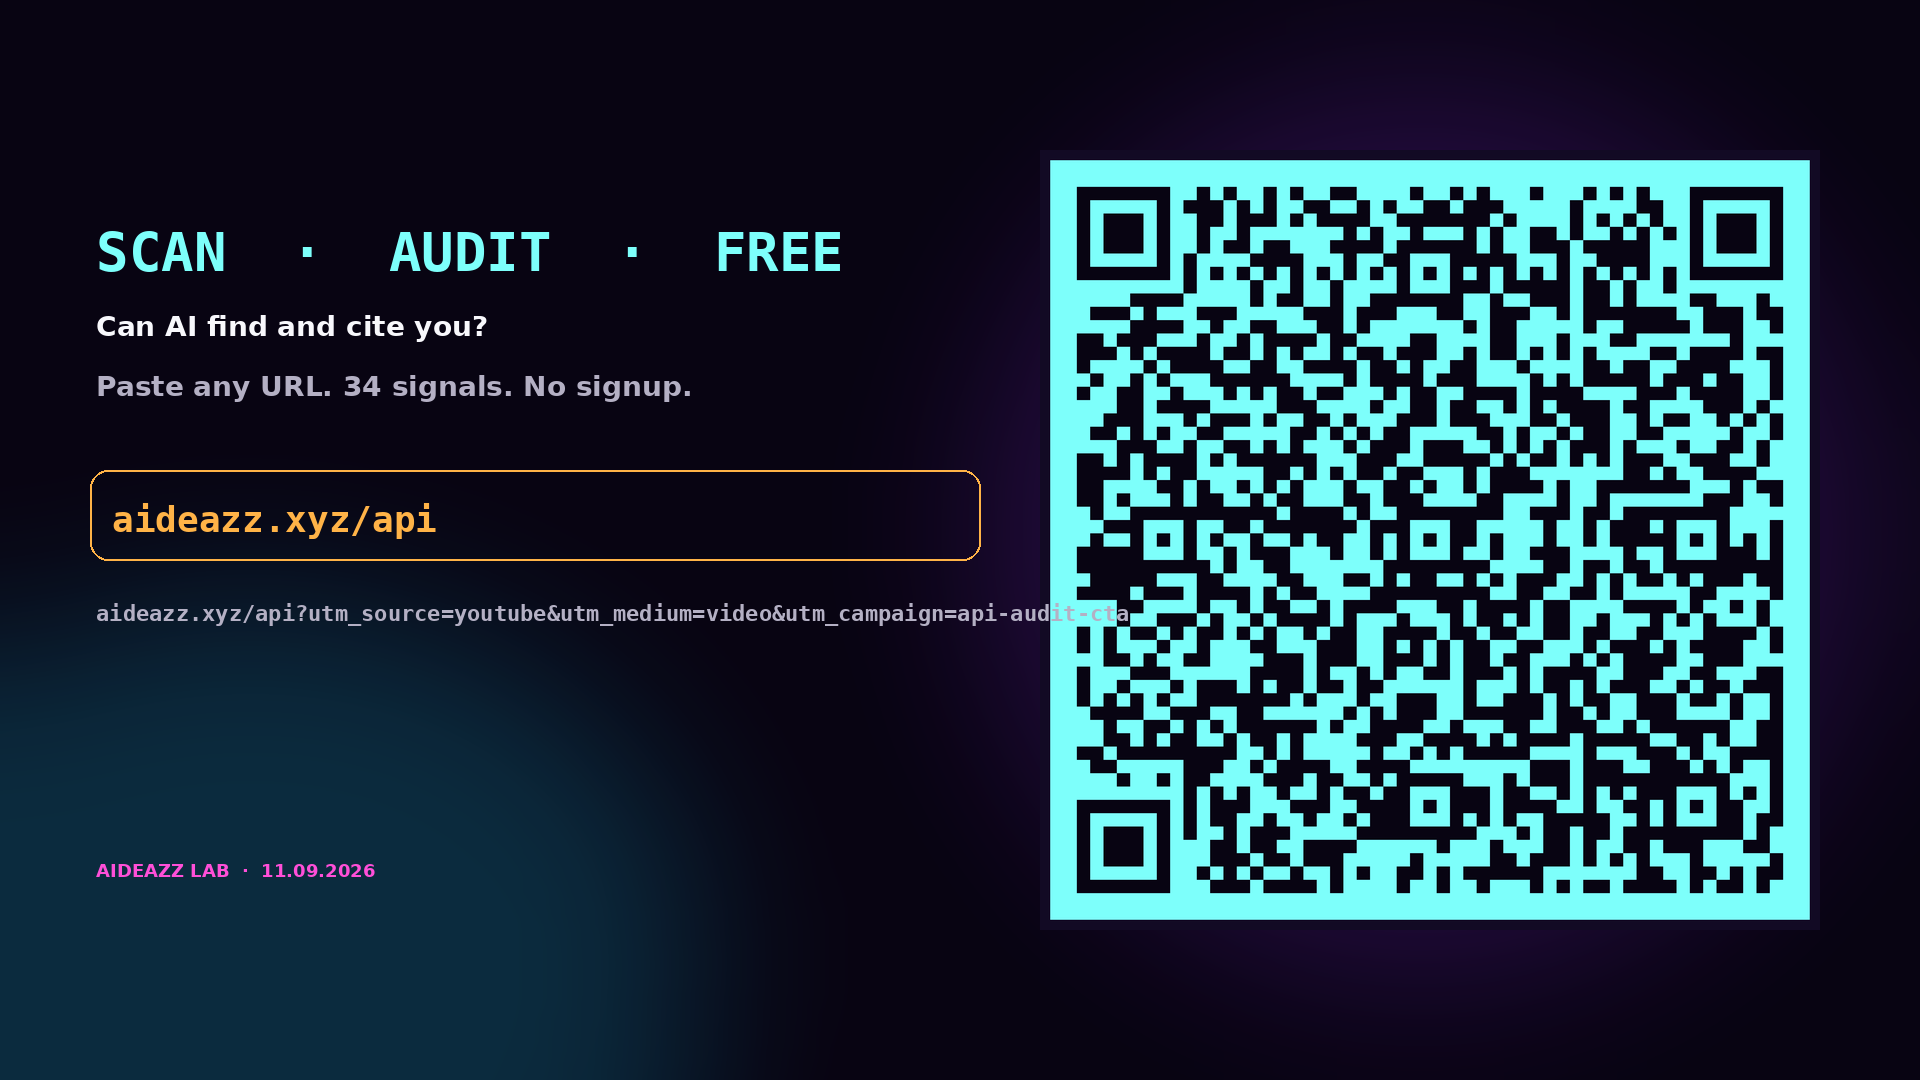
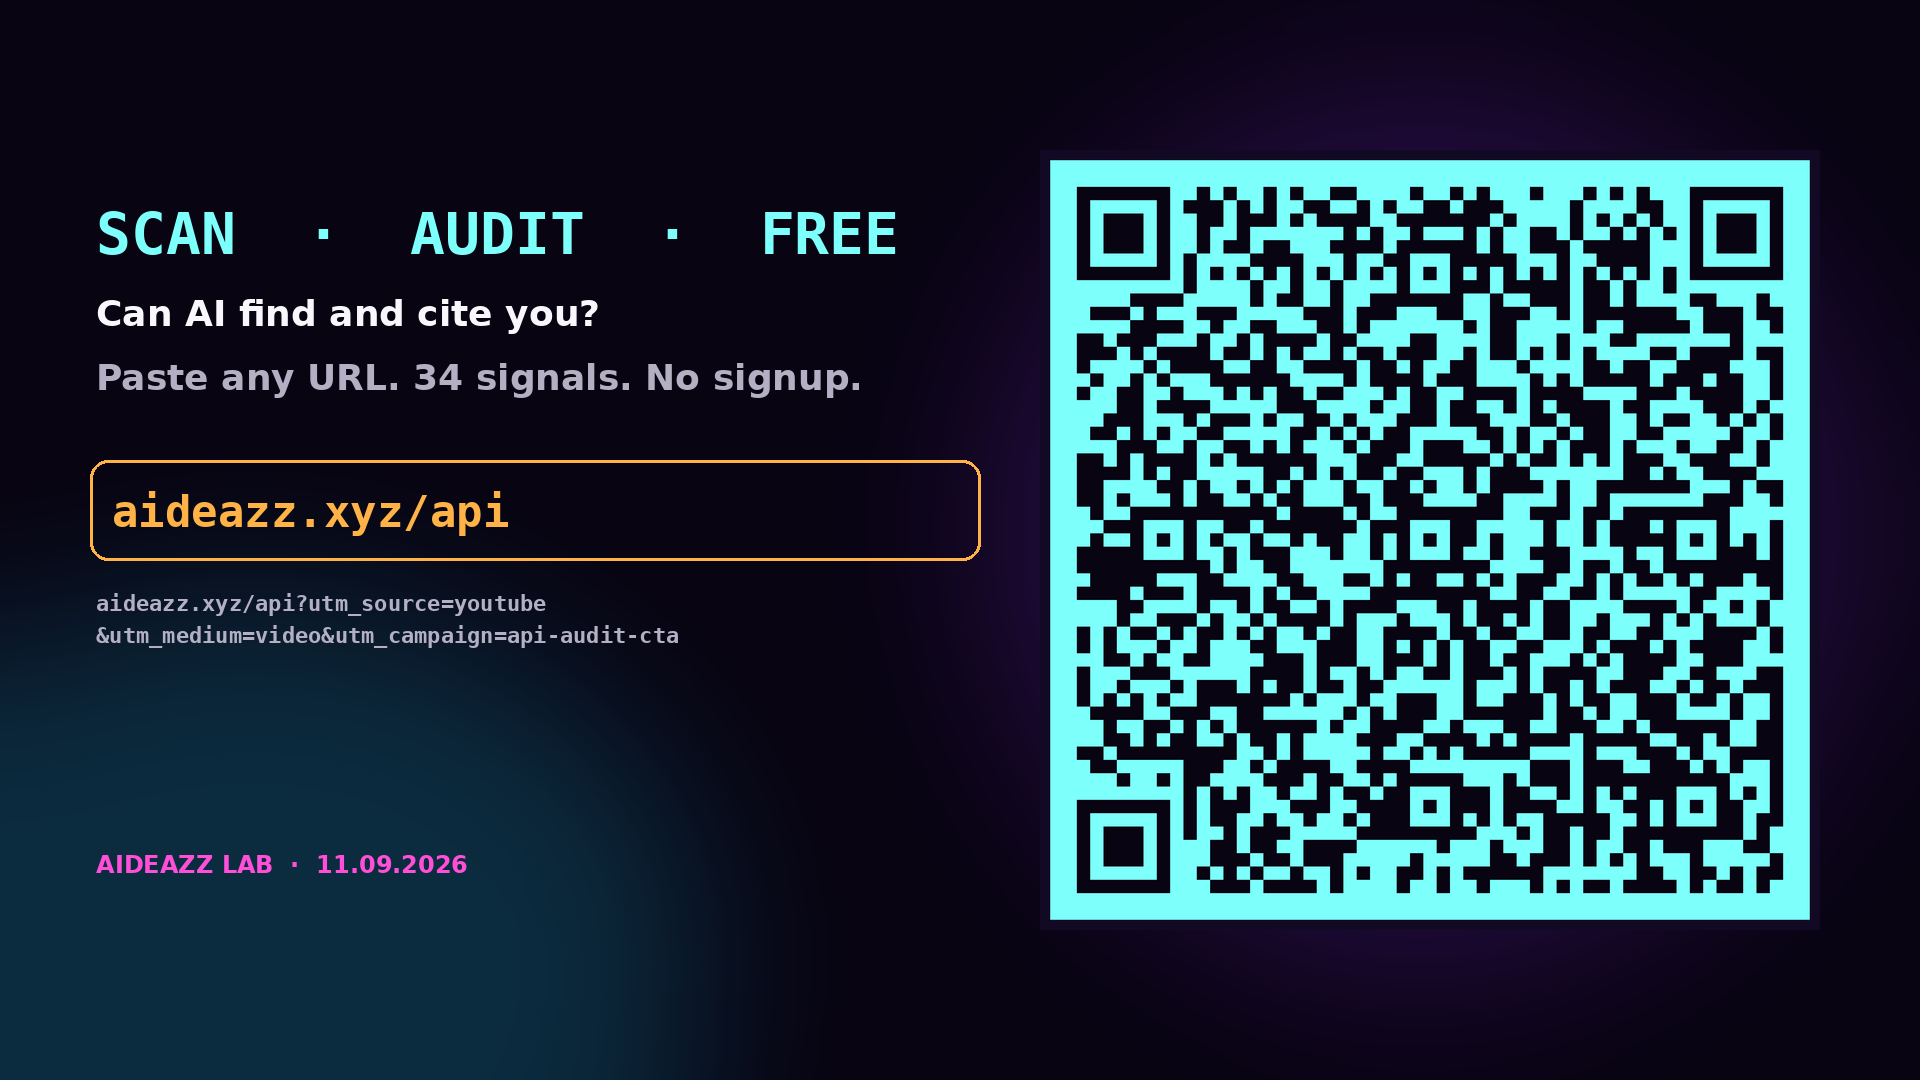
feat(api-film): v9 — larger burned-in captions, labels, and QR type
VO wording stays frozen. Caption type 28→52, chapter overlays and fruit
labels scale with it, QR end card type is larger without covering the code.
Publish as -v9. Do not wipe grapes/split/crawlers.

diff --git a/scripts/oracle-resilience/api-film-watch.html b/scripts/oracle-resilience/api-film-watch.html
@@ -19,13 +19,13 @@
   <main>
     <h1>Can AI find and cite you?</h1>
     <p class="hint">
-      v8: grapevine + What it checks overlay. Checks waterfall
-      is a one-second peek, not a long scroll. Tap the QR.
+      v9: same cut, larger burned-in text (captions and labels).
+      Grapevine + What it checks. Waterfall is a one-second peek. Tap the QR.
     </p>
-    <video controls autoplay playsinline src="can-ai-find-and-cite-you-v8.mp4?v=CACHEBUST"></video>
+    <video controls autoplay playsinline src="can-ai-find-and-cite-you-v9.mp4?v=CACHEBUST"></video>
     <p>
       Direct file:
-      <a href="can-ai-find-and-cite-you-v8.mp4?v=CACHEBUST">can-ai-find-and-cite-you-v8.mp4</a>
+      <a href="can-ai-find-and-cite-you-v9.mp4?v=CACHEBUST">can-ai-find-and-cite-you-v9.mp4</a>
     </p>
     <div class="qr">
       <a href="https://aideazz.xyz/api?utm_source=youtube&amp;utm_medium=video&amp;utm_campaign=api-audit-cta">

diff --git a/scripts/youtube-api-audit-film/make-qr-endcard.py b/scripts/youtube-api-audit-film/make-qr-endcard.py
@@ -69,19 +69,21 @@ def compose_card(qr: Image.Image) -> Image.Image:
     qr_r = qr.resize((qr_h, qr_h), Image.Resampling.LANCZOS)
     img.paste(qr_r, (1040, (H - qr_h) // 2))
 
-    title = font(54, mono=True)
-    sub = font(28)
+    title = font(58, mono=True)
+    sub = font(36)
     urlf = font(22, mono=True)
-    tiny = font(18)
+    tiny = font(24)
 
-    draw.text((96, 220), "SCAN  ·  AUDIT  ·  FREE", font=title, fill=CYAN)
-    draw.text((96, 310), "Can AI find and cite you?", font=sub, fill=WHITE)
-    draw.text((96, 370), "Paste any URL. 34 signals. No signup.", font=sub, fill=MUTED)
+    draw.text((96, 200), "SCAN  ·  AUDIT  ·  FREE", font=title, fill=CYAN)
+    draw.text((96, 292), "Can AI find and cite you?", font=sub, fill=WHITE)
+    draw.text((96, 356), "Paste any URL. 34 signals. No signup.", font=sub, fill=MUTED)
     # URL as readable text so the CTA works even if nobody scans.
-    draw.rounded_rectangle((90, 470, 980, 560), radius=18, outline=CITRUS, width=2)
-    draw.text((112, 498), "aideazz.xyz/api", font=font(36, mono=True), fill=CITRUS)
-    draw.text((96, 600), CTA.replace("https://", ""), font=urlf, fill=MUTED)
-    draw.text((96, 860), "AIDEAZZ LAB  ·  11.09.2026", font=tiny, fill=MAGENTA)
+    draw.rounded_rectangle((90, 460, 980, 560), radius=18, outline=CITRUS, width=3)
+    draw.text((112, 486), "aideazz.xyz/api", font=font(44, mono=True), fill=CITRUS)
+    utm = CTA.replace("https://", "")
+    draw.text((96, 590), "aideazz.xyz/api?utm_source=youtube", font=urlf, fill=MUTED)
+    draw.text((96, 622), "&utm_medium=video&utm_campaign=api-audit-cta", font=urlf, fill=MUTED)
+    draw.text((96, 850), "AIDEAZZ LAB  ·  11.09.2026", font=tiny, fill=MAGENTA)
     return img
 
 

diff --git a/docs/selling/YOUTUBE_API_AUDIT_PROMO.md b/docs/selling/YOUTUBE_API_AUDIT_PROMO.md
@@ -8,7 +8,7 @@ Compiled with the Atuona Film Studio stack already wired into this repo
 
 ## Length (this cut)
 
-VO and captions on existing beats are unchanged. Grapevine is back: berries move, neural traces glow, and the “What it checks” chapter sits on that shot. Checks waterfall Loom is a **1 second peek**, not a long scroll. Fruit labels (Google / ChatGPT, bot names) are burned onto the picture, not spoken. QR outro.
+VO and caption **wording** on existing beats are unchanged; burned-in type is **larger** (VO captions, fruit labels, chapter overlays, QR end card). Grapevine is back: berries move, neural traces glow, and the “What it checks” chapter sits on that shot. Checks waterfall Loom is a **1 second peek**, not a long scroll. Fruit labels (Google / ChatGPT, bot names) are burned onto the picture, not spoken. QR outro.
 
 ## Watch
 
@@ -17,8 +17,8 @@ Open a filename Chrome has never cached:
 Player (QR is a real clickable link on this page):
 https://webhook.aideazz.xyz/influencer-images/youtube/watch.html
 
-Direct file (open this, not v7 / v6 / v5):
-https://webhook.aideazz.xyz/influencer-images/youtube/can-ai-find-and-cite-you-v8.mp4
+Direct file (open this, not v8 / v7 / v6):
+https://webhook.aideazz.xyz/influencer-images/youtube/can-ai-find-and-cite-you-v9.mp4
 
 Poster:
 https://webhook.aideazz.xyz/influencer-images/youtube/can-ai-find-and-cite-you-poster.jpg
